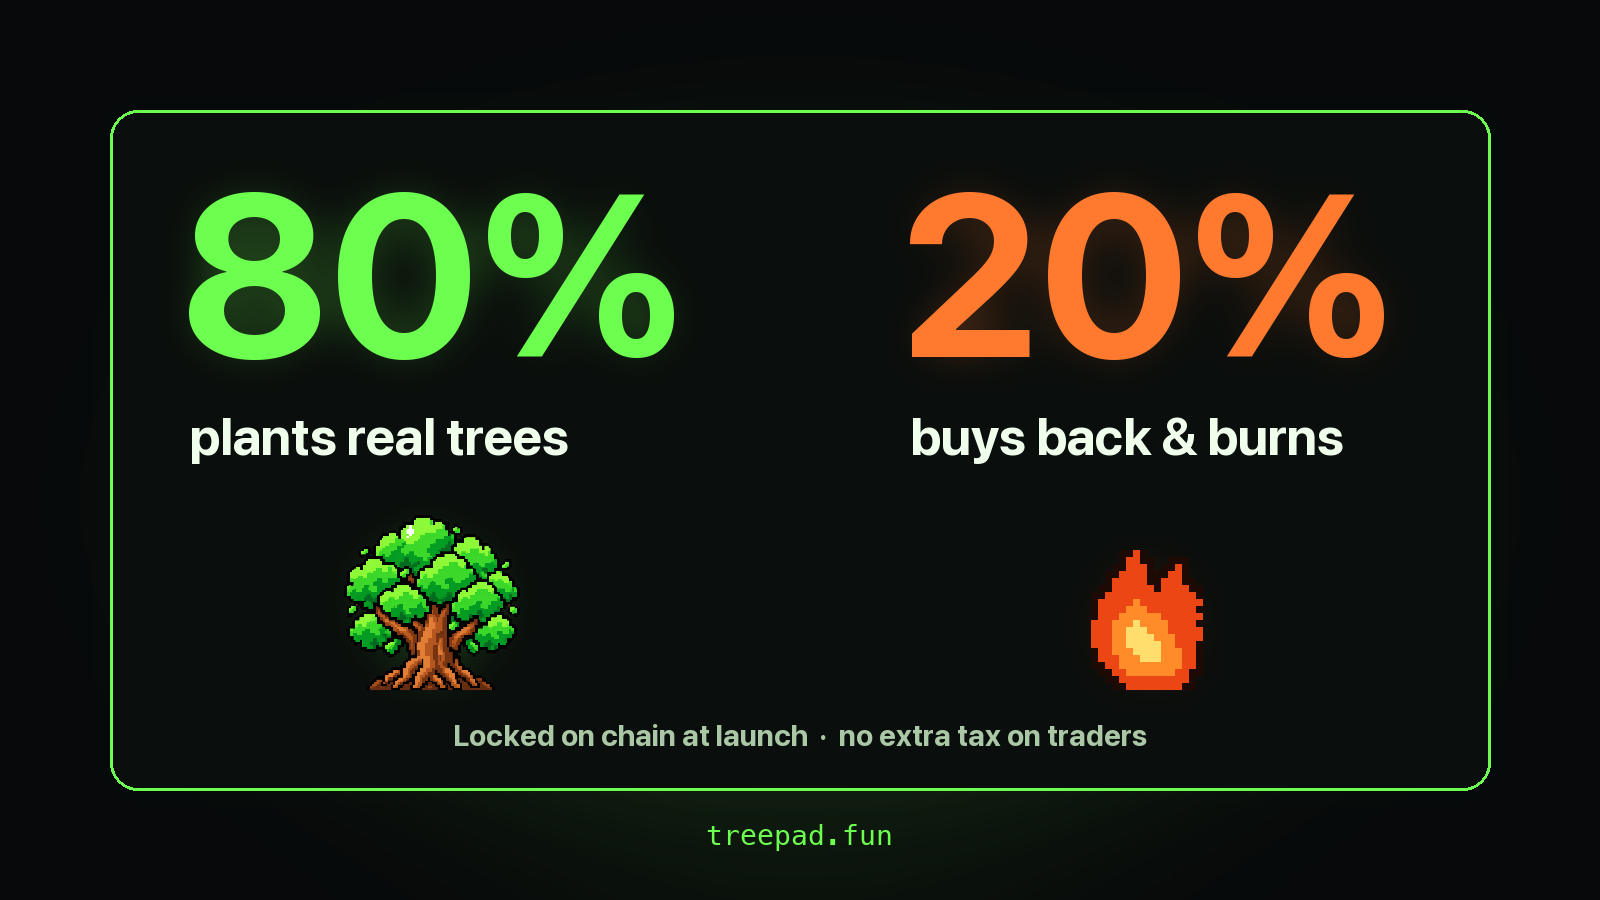
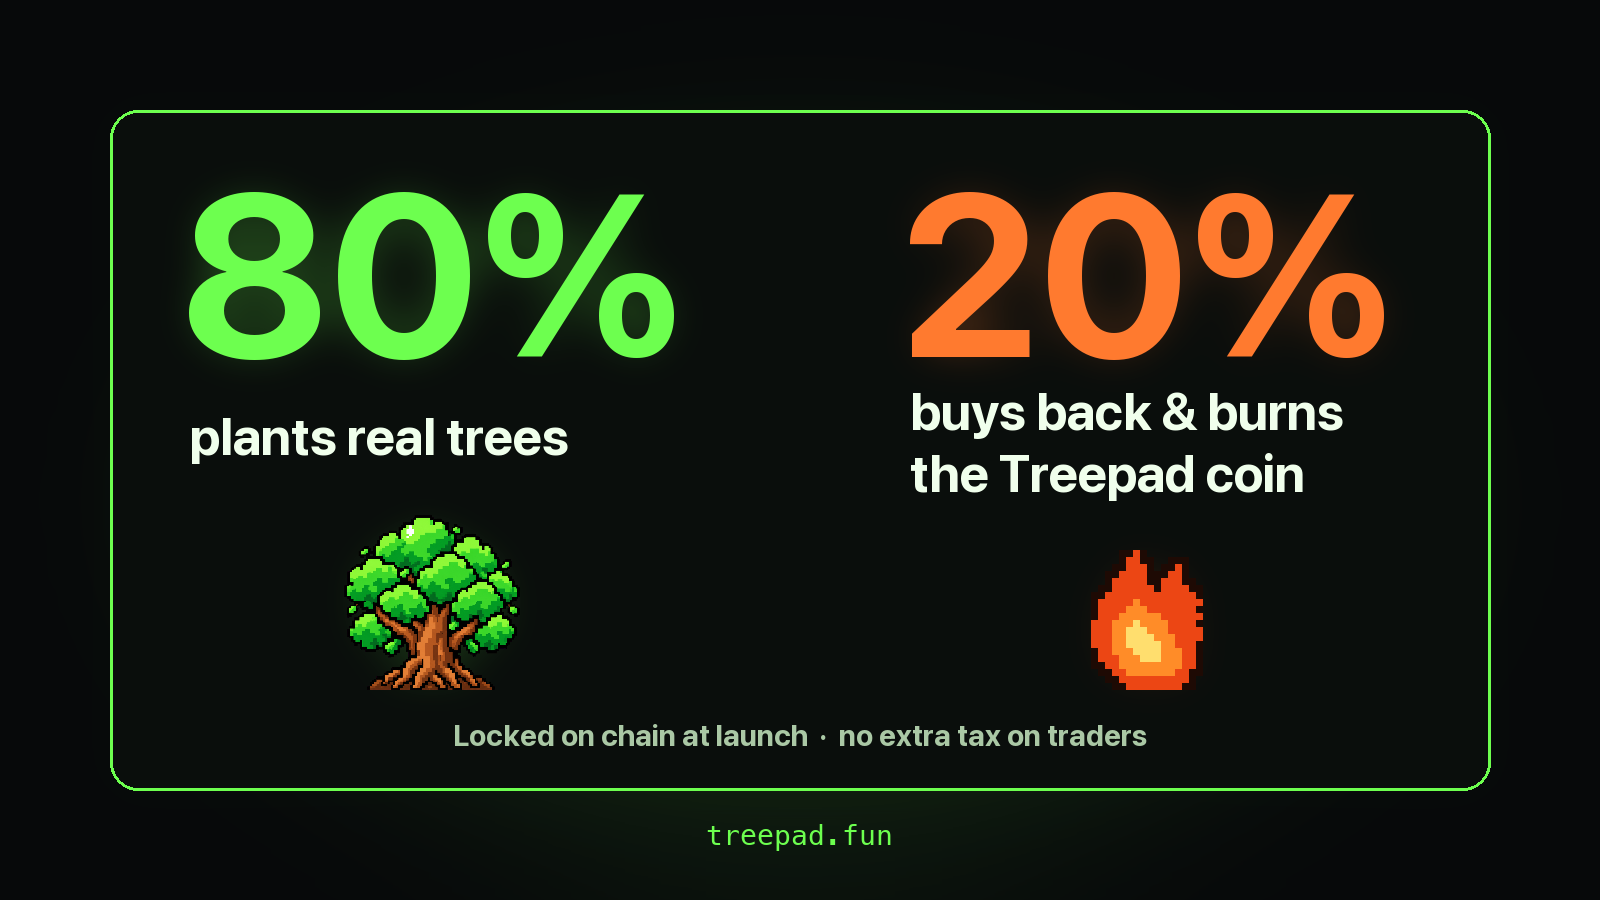
fix: Treepad kit names the Treepad coin in every burn line

Changed region(s): [[0.5625, 0.4356, 0.8438, 0.56]]

diff --git a/docs/treepad-launch-kit/index.html b/docs/treepad-launch-kit/index.html
@@ -9,27 +9,27 @@ h1{font-size:32px;margin:8px 0 4px}h2{font-size:22px;margin:32px 0 2px}.when,.to
 figure{overflow:hidden}figure img{width:100%;max-height:300px;object-fit:contain;background:#07090a;display:block;cursor:zoom-in}
 figcaption{display:flex;justify-content:space-between;align-items:center;gap:8px;padding:10px 12px;font-weight:600;font-size:13px;flex-wrap:wrap}small{color:var(--muted);font-weight:400}
 button{font:600 13px inherit;border-radius:9px;padding:7px 12px;cursor:pointer;border:0}.b{background:var(--neon);color:#07090a;align-self:flex-start}.g{background:transparent;color:var(--fg);border:1px solid var(--line)}
-</style></head><body><h1>Treepad launch kit</h1><p class="top">@treepadfun · tap Copy on any tweet or picture. After launch, the proof tweet with the real certificate link is at <a href="https://treepad.fun/launch-proof" target="_blank">treepad.fun/launch-proof</a>. [CA] is the contract address.</p><section><h2>Profile</h2><p class="when">Set up before the launch tweet.</p><div class="tw"><div class="card"><div class="lab">Bio (also pump.fun description and DEX Screener info)</div><pre>Coin launchpad on pump.fun. 80% of creator fees plant real trees, 20% buys back and burns our own coin. No extra tax on traders. Every trade plants a tree.</pre><button class="b" data-t="Coin launchpad on pump.fun. 80% of creator fees plant real trees, 20% buys back and burns our own coin. No extra tax on traders. Every trade plants a tree.">Copy</button></div></div><div class="im"><figure><img src="img/avatar.png" alt="Profile picture" loading="lazy" onclick="window.open(this.src)"><figcaption><span>Profile picture <small>400×400</small></span><span><button class="b ci">Copy image</button> <button class="g dl" data-n="treepad-avatar.png">Download</button></span></figcaption></figure><figure><img src="img/x-header.png" alt="Header" loading="lazy" onclick="window.open(this.src)"><figcaption><span>Header <small>1500×500</small></span><span><button class="b ci">Copy image</button> <button class="g dl" data-n="treepad-x-header.png">Download</button></span></figcaption></figure></div></section><section><h2>Launch</h2><p class="when">The moment you go live. Pick one.</p><div class="tw"><div class="card"><div class="lab">Launch 1</div><pre>Treepad is live.
+</style></head><body><h1>Treepad launch kit</h1><p class="top">@treepadfun · tap Copy on any tweet or picture. After launch, the proof tweet with the real certificate link is at <a href="https://treepad.fun/launch-proof" target="_blank">treepad.fun/launch-proof</a>. [CA] is the contract address.</p><section><h2>Profile</h2><p class="when">Set up before the launch tweet.</p><div class="tw"><div class="card"><div class="lab">Bio (also pump.fun description and DEX Screener info)</div><pre>Coin launchpad on pump.fun. 80% of creator fees plant real trees, 20% burns the Treepad coin. No extra tax on traders. Every trade plants a tree.</pre><button class="b" data-t="Coin launchpad on pump.fun. 80% of creator fees plant real trees, 20% burns the Treepad coin. No extra tax on traders. Every trade plants a tree.">Copy</button></div></div><div class="im"><figure><img src="img/avatar.png" alt="Profile picture" loading="lazy" onclick="window.open(this.src)"><figcaption><span>Profile picture <small>400×400</small></span><span><button class="b ci">Copy image</button> <button class="g dl" data-n="treepad-avatar.png">Download</button></span></figcaption></figure><figure><img src="img/x-header.png" alt="Header" loading="lazy" onclick="window.open(this.src)"><figcaption><span>Header <small>1500×500</small></span><span><button class="b ci">Copy image</button> <button class="g dl" data-n="treepad-x-header.png">Download</button></span></figcaption></figure></div></section><section><h2>Launch</h2><p class="when">The moment you go live. Pick one.</p><div class="tw"><div class="card"><div class="lab">Launch 1</div><pre>Treepad is live.
 
-Launch a coin on pump.fun through treepad.fun. 80% of its creator fees plant a tree you pick, 20% buys back and burns $TICKER.
+Launch a pump.fun coin on treepad.fun. 80% of its creator fees plant a tree you pick, 20% buys back and burns the Treepad coin.
 
 No extra tax on traders. Every trade plants a tree.
 
 [CA]</pre><button class="b" data-t="Treepad is live.
 
-Launch a coin on pump.fun through treepad.fun. 80% of its creator fees plant a tree you pick, 20% buys back and burns $TICKER.
+Launch a pump.fun coin on treepad.fun. 80% of its creator fees plant a tree you pick, 20% buys back and burns the Treepad coin.
 
 No extra tax on traders. Every trade plants a tree.
 
 [CA]">Copy</button></div><div class="card"><div class="lab">Launch 2</div><pre>Every trade plants a tree.
 
-Treepad is live on pump.fun. Pick from 500+ trees in 22 countries and 80% of your coin's fees plant them. The other 20% buys back and burns $TICKER.
+Treepad is live on pump.fun. Pick from 500+ trees in 22 countries and 80% of your coin's fees plant them. The other 20% buys back and burns the Treepad coin.
 
 treepad.fun
 
 [CA]</pre><button class="b" data-t="Every trade plants a tree.
 
-Treepad is live on pump.fun. Pick from 500+ trees in 22 countries and 80% of your coin's fees plant them. The other 20% buys back and burns $TICKER.
+Treepad is live on pump.fun. Pick from 500+ trees in 22 countries and 80% of your coin's fees plant them. The other 20% buys back and burns the Treepad coin.
 
 treepad.fun
 
@@ -44,12 +44,12 @@ Launch through treepad.fun, pick a tree, and your coin goes live on pump.fun lik
 Every trade plants a tree.">Copy</button></div><div class="card"><div class="lab">2/</div><pre>2/ The split is locked on chain the moment your coin is created:
 
 80% of creator fees plant trees
-20% buys back and burns $TICKER, our own coin
+20% buys back and burns the Treepad coin
 
 It's pump.fun's normal creator fee. Traders pay nothing extra.</pre><button class="b" data-t="2/ The split is locked on chain the moment your coin is created:
 
 80% of creator fees plant trees
-20% buys back and burns $TICKER, our own coin
+20% buys back and burns the Treepad coin
 
 It's pump.fun's normal creator fee. Traders pay nothing extra.">Copy</button></div><div class="card"><div class="lab">3/</div><pre>3/ You pick the tree. 500+ species in 22 countries: mangroves in Kenya, mahogany in Nicaragua, oaks in Spain, rainforest in Australia.
 
@@ -61,29 +61,29 @@ Nothing to claim, no dev wallet in the middle.</pre><button class="b" data-t="4/
 
 Nothing to claim, no dev wallet in the middle.">Copy</button></div><div class="card"><div class="lab">5/</div><pre>5/ Check it yourself.
 
-Every tree has its own public certificate. Every fee payout is a Solana transaction. Every $TICKER buyback and burn is listed.
+Every tree has its own public certificate. Every fee payout is a Solana transaction. Every buyback and burn of the Treepad coin is listed.
 
 treepad.fun/forest</pre><button class="b" data-t="5/ Check it yourself.
 
-Every tree has its own public certificate. Every fee payout is a Solana transaction. Every $TICKER buyback and burn is listed.
+Every tree has its own public certificate. Every fee payout is a Solana transaction. Every buyback and burn of the Treepad coin is listed.
 
-treepad.fun/forest">Copy</button></div></div><div class="im"><figure><img src="img/how-it-works.png" alt="How it works" loading="lazy" onclick="window.open(this.src)"><figcaption><span>How it works <small>1600×900</small></span><span><button class="b ci">Copy image</button> <button class="g dl" data-n="treepad-how-it-works.png">Download</button></span></figcaption></figure><figure><img src="img/how-it-works-square.png" alt="How it works (square)" loading="lazy" onclick="window.open(this.src)"><figcaption><span>How it works (square) <small>1080×1080</small></span><span><button class="b ci">Copy image</button> <button class="g dl" data-n="treepad-how-it-works-square.png">Download</button></span></figcaption></figure><figure><img src="img/fees-to-trees.png" alt="80% trees, 20% buyback &amp; burn" loading="lazy" onclick="window.open(this.src)"><figcaption><span>80% trees, 20% buyback &amp; burn <small>1600×900</small></span><span><button class="b ci">Copy image</button> <button class="g dl" data-n="treepad-fees-to-trees.png">Download</button></span></figcaption></figure></div></section><section><h2>Buyback &amp; burn</h2><p class="when">Day one, and after every burn.</p><div class="tw"><div class="card"><div class="lab">Every coin feeds $TICKER</div><pre>Every coin launched on Treepad feeds $TICKER.
+treepad.fun/forest">Copy</button></div></div><div class="im"><figure><img src="img/how-it-works.png" alt="How it works" loading="lazy" onclick="window.open(this.src)"><figcaption><span>How it works <small>1600×900</small></span><span><button class="b ci">Copy image</button> <button class="g dl" data-n="treepad-how-it-works.png">Download</button></span></figcaption></figure><figure><img src="img/how-it-works-square.png" alt="How it works (square)" loading="lazy" onclick="window.open(this.src)"><figcaption><span>How it works (square) <small>1080×1080</small></span><span><button class="b ci">Copy image</button> <button class="g dl" data-n="treepad-how-it-works-square.png">Download</button></span></figcaption></figure><figure><img src="img/fees-to-trees.png" alt="80% trees, 20% buyback &amp; burn" loading="lazy" onclick="window.open(this.src)"><figcaption><span>80% trees, 20% buyback &amp; burn <small>1600×900</small></span><span><button class="b ci">Copy image</button> <button class="g dl" data-n="treepad-fees-to-trees.png">Download</button></span></figcaption></figure></div></section><section><h2>Buyback &amp; burn</h2><p class="when">Day one, and after every burn.</p><div class="tw"><div class="card"><div class="lab">Every coin feeds the Treepad coin</div><pre>Every coin launched on Treepad feeds the Treepad coin.
 
-20% of their creator fees buys back $TICKER and burns it. More launches, more trades, more $TICKER burned.
-
-Every buy and burn is public:
-treepad.fun/forest</pre><button class="b" data-t="Every coin launched on Treepad feeds $TICKER.
-
-20% of their creator fees buys back $TICKER and burns it. More launches, more trades, more $TICKER burned.
+20% of their creator fees buys back the Treepad coin and burns it. Launched coins are never burned. More launches, more trades, more burned.
 
 Every buy and burn is public:
-treepad.fun/forest">Copy</button></div><div class="card"><div class="lab">Burn done</div><pre>$TICKER buyback and burn done.
+treepad.fun/forest</pre><button class="b" data-t="Every coin launched on Treepad feeds the Treepad coin.
 
-[SOL] SOL of Treepad's fees bought [BURNED] $TICKER, now burned for good.
+20% of their creator fees buys back the Treepad coin and burns it. Launched coins are never burned. More launches, more trades, more burned.
 
-Burn: [BURN LINK]</pre><button class="b" data-t="$TICKER buyback and burn done.
+Every buy and burn is public:
+treepad.fun/forest">Copy</button></div><div class="card"><div class="lab">Burn done</div><pre>Treepad coin buyback and burn done.
 
-[SOL] SOL of Treepad's fees bought [BURNED] $TICKER, now burned for good.
+[SOL] SOL of fees bought [BURNED] Treepad coins, now burned for good.
+
+Burn: [BURN LINK]</pre><button class="b" data-t="Treepad coin buyback and burn done.
+
+[SOL] SOL of fees bought [BURNED] Treepad coins, now burned for good.
 
 Burn: [BURN LINK]">Copy</button></div></div><div class="im"><figure><img src="img/buyback-burn.png" alt="Buyback &amp; burn" loading="lazy" onclick="window.open(this.src)"><figcaption><span>Buyback &amp; burn <small>1600×900</small></span><span><button class="b ci">Copy image</button> <button class="g dl" data-n="treepad-buyback-burn.png">Download</button></span></figcaption></figure><figure><img src="img/other-devs.png" alt="Other launchpads vs Treepad" loading="lazy" onclick="window.open(this.src)"><figcaption><span>Other launchpads vs Treepad <small>1600×900</small></span><span><button class="b ci">Copy image</button> <button class="g dl" data-n="treepad-other-devs.png">Download</button></span></figcaption></figure></div></section><section><h2>Day one and after</h2><p class="when">Keep the feed going.</p><div class="tw"><div class="card"><div class="lab">Tree count</div><pre>[N] trees planted so far.
 
